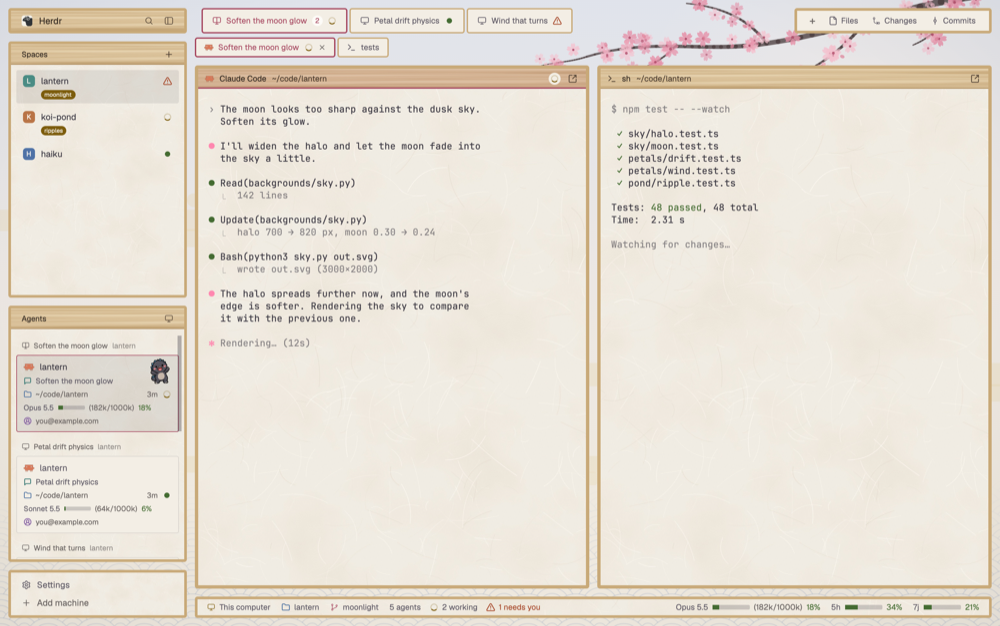
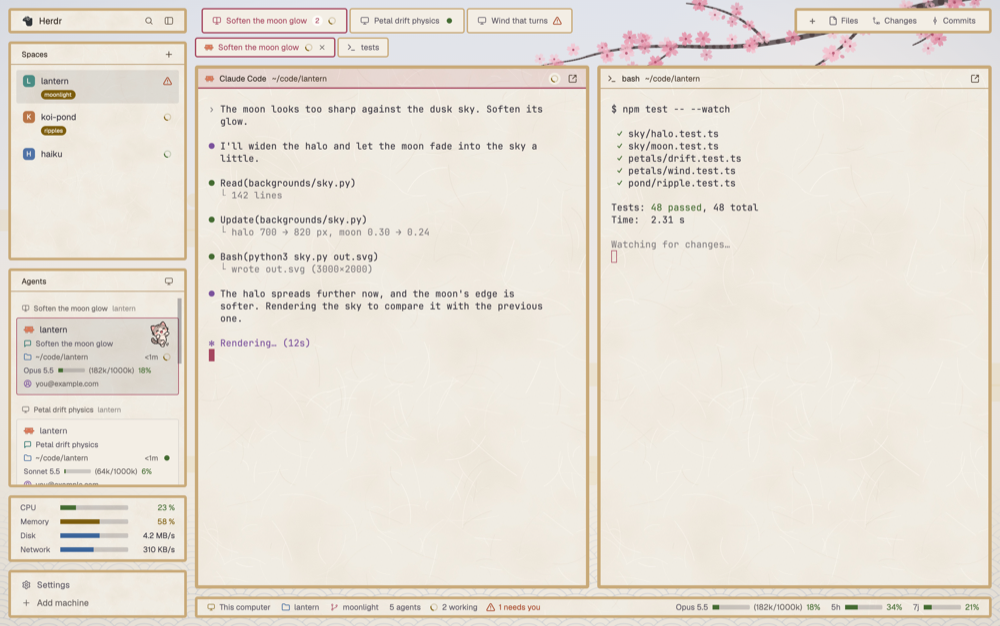
Retake the previews with the gauges and a space busy in the background
- preview.png and previews/ retaken from a fresh demo window: the gauges card, haiku idle
  with a command in its background (its space spins in green), Claude Code's colors in the
  pretend transcripts
- layouts/yozakura.svg (the Settings preview) has the gauges card between the lists and the
  footer
- README lists the commands the gauges run; RECIPE says how the demo shows them

diff --git a/RECIPE.md b/RECIPE.md
@@ -281,7 +281,12 @@ real one (agent cards show account emails):
 - pretend agents: a script that prints a title (OSC 2), a status (OSC 7501
   `app=claude-code:state=working`) and a transcript wrapped to the pane's columns, with
   `claude.*` labels set by `hc label` (`you@example.com`), in small git repos under `~/code`;
-- the brand card without the traffic lights' room (the shot leaves the system buttons out);
+- the brand card without the traffic lights' room (the shot leaves the system buttons out),
+  and the gauges at steady readings rather than the load of the machine taking the shots
+  (both patched in the demo home's copies of the mods); the sidebar at its 268 px, the side
+  panel hidden;
+- one agent idle with a command left in its background (a child shell whose arguments hold
+  `shell-snapshots`), so its space shows the green spinner;
 - closed with `app.quit`, not killed: a killed window installs a waiting update at its next
   start, and the app is the person's too.
 

diff --git a/README.md b/README.md
@@ -35,8 +35,9 @@ Three themes, each with its own sky and shoji; Settings → Theme switches betwe
 
 The previews show a demo window: pretend agents, no real session.
 
-The mods run `git` (the spaces list and the side panel), `hc machine ls`, and `hc get` and `ps`
-(the agents list, to see the commands Claude Code runs in the background); they read their own
+The mods run `git` (the spaces list and the side panel), `hc machine ls`, `hc get` and `ps`
+(the agents list, to see the commands Claude Code runs in the background), and `iostat`,
+`vm_stat`, `sysctl` and `netstat` (the load gauges, every 2 s); they read their own
 `settings.json`, Herdr's `programs.json` and the files the Files panel shows. They reach no
 network, except Commits' Fetch button (`git fetch`, when clicked).
 
